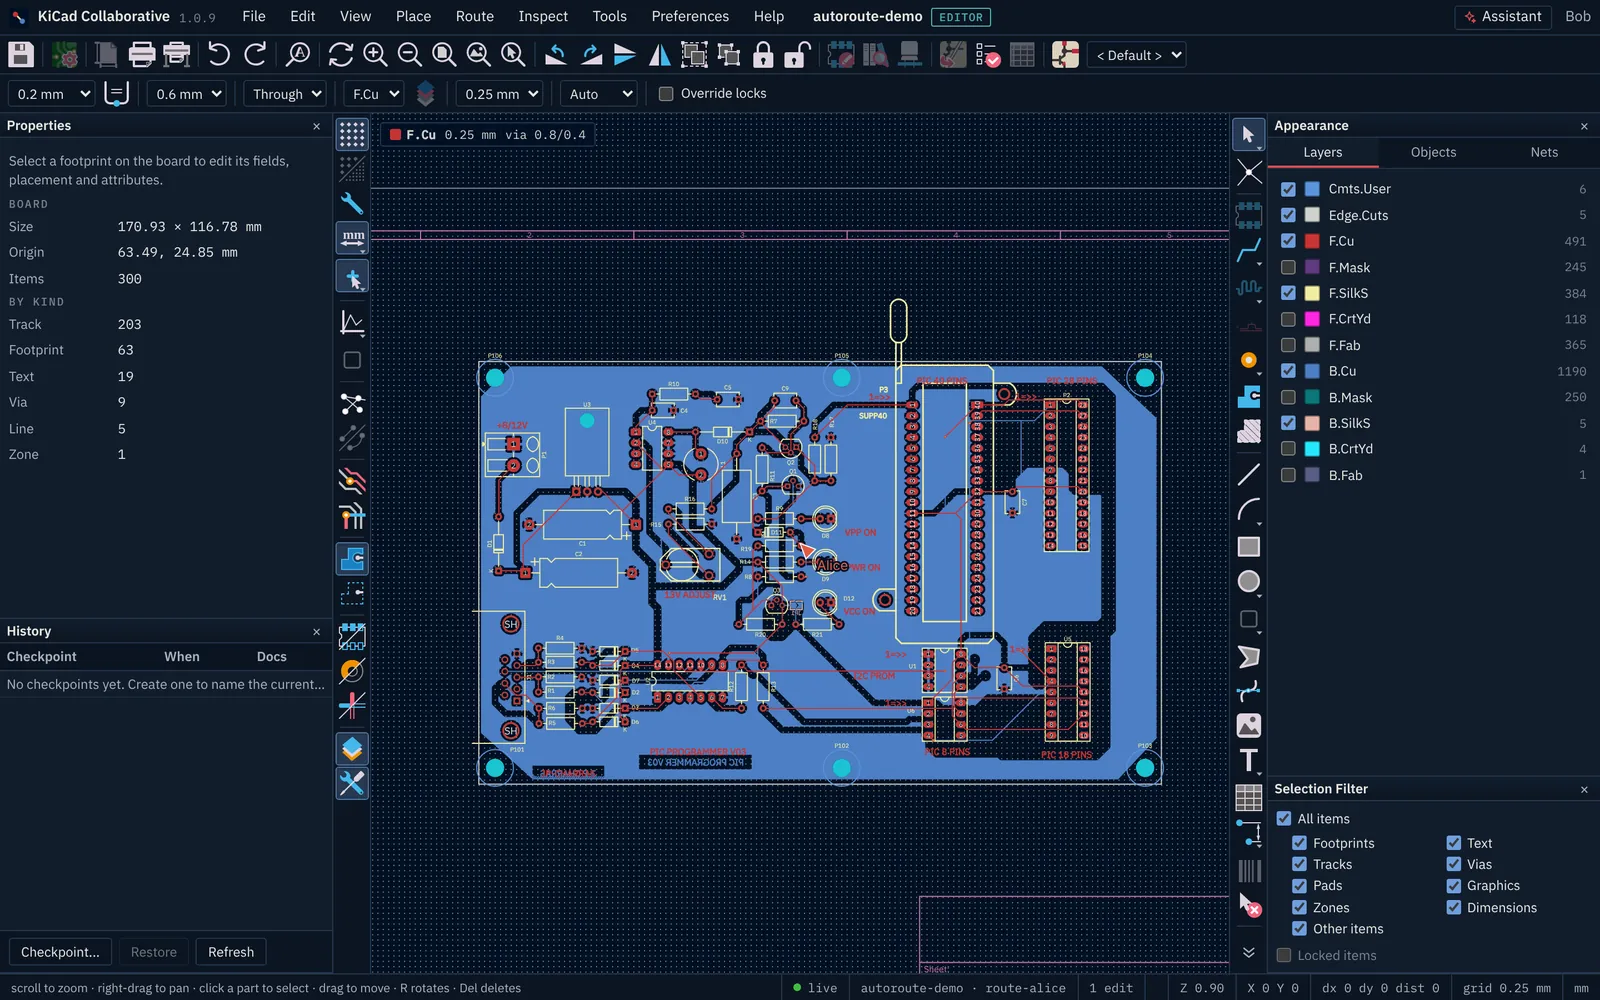
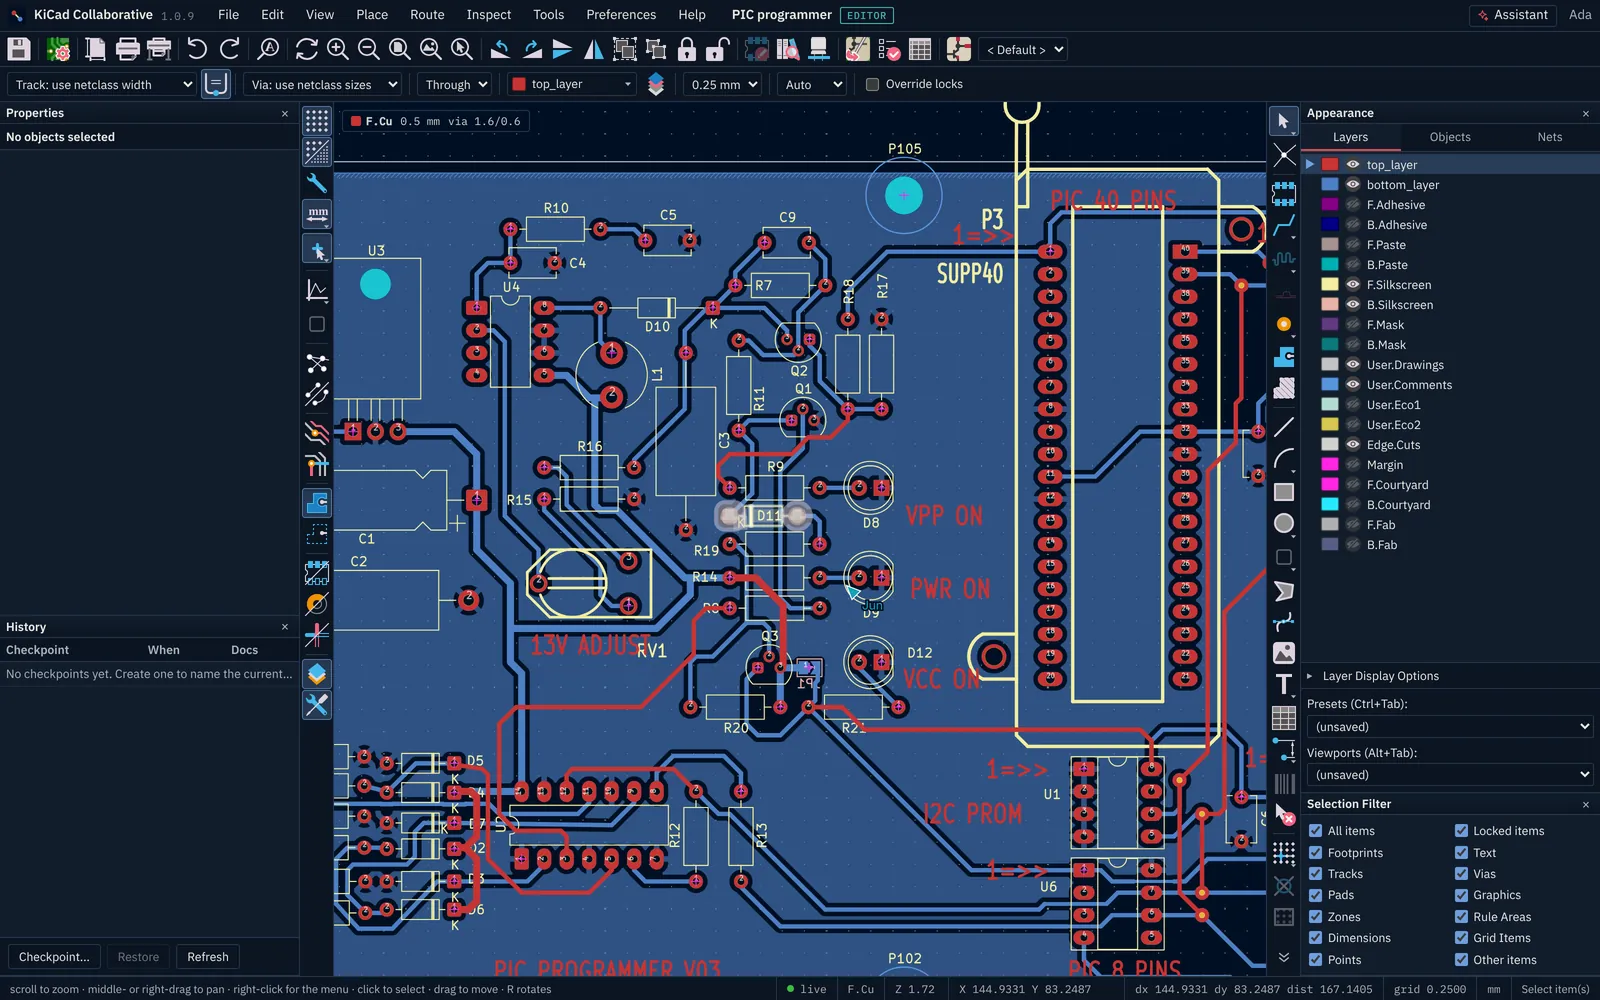
Web: home page - fresh editor screenshots, feature list caught up with master (3D viewer, plugin registry, board from a description)

diff --git a/server/static/landing.html b/server/static/landing.html
@@ -328,7 +328,7 @@
         <li data-step><span class="n">Sheet 3 / Routing</span><h3>Route it, by hand or not</h3>
           <div class="more"><div><p>Tracks appear for everyone segment by segment as they are laid. In the web editor, the autorouter can finish the connections you leave and shows its result as a preview before anything is kept.</p></div></div></li>
         <li data-step><span class="n">Sheet 4 / Board</span><h3>It is still KiCad</h3>
-          <div class="more"><div><p>The files are ordinary .kicad_sch and .kicad_pcb. Design rule checks, the 3D viewer and fabrication outputs are the desktop app's own. Name a checkpoint before you order, and restore it if you need to.</p></div></div></li>
+          <div class="more"><div><p>The files are ordinary .kicad_sch and .kicad_pcb. Rule checks and the 3D viewer work in the browser too, and fabrication outputs come from the desktop app as they always have. Name a checkpoint before you order, and restore it if you need to.</p></div></div></li>
       </ol>
       <div class="scene">
         <canvas aria-label="A 555 LED blinker drawn as a schematic, then placed, routed and shown as a finished board as you scroll."></canvas>
@@ -345,8 +345,8 @@
     <h2 class="rv" style="--i:1; margin-top:18px">What you see when someone else is in the file.</h2>
     <div class="together-grid">
       <figure class="rv">
-        <div class="shot"><img src="/static/landing/editor.webp" width="1600" height="1000" loading="lazy" alt="The web PCB editor in dark mode. Bob has a routed board open and Alice's named cursor is visible in the middle of it."></div>
-        <figcaption class="cap" style="margin-top:10px">The web PCB editor. Bob's window, Alice's cursor.</figcaption>
+        <div class="shot"><img src="/static/landing/editor.webp" width="1600" height="1000" loading="lazy" alt="The web PCB editor in dark mode, zoomed in on a routed board. Jun has selected diode D11, which is outlined on Ada's screen, and Jun's named cursor is beside it."></div>
+        <figcaption class="cap" style="margin-top:10px">The web PCB editor. Ada's window; Jun has D11 selected.</figcaption>
       </figure>
       <ol class="notes rv" style="--i:1">
         <li><div><b>Named cursors and selections</b><span>Everyone gets a colour. Their pointer and whatever they have selected are drawn in it on your canvas.</span></div></li>
@@ -368,18 +368,18 @@
     <div class="bom-grid">
       <div class="bom rv" role="tablist" aria-label="Features" aria-orientation="vertical">
         <div class="bom-h"><span>REF</span><span>ITEM</span></div>
-        <button class="bom-r" role="tab" aria-selected="true" data-shot="editor"><span class="ref">01</span><span><b>Web editor</b><span class="d"><span>The schematic and PCB editors in a browser tab, drawn on canvas with KiCad's colours, menus, hotkeys and mouse model. Move, wire, route, edit properties and place parts from the KiCad libraries.</span></span></span></button>
+        <button class="bom-r" role="tab" aria-selected="true" data-shot="editor"><span class="ref">01</span><span><b>Web editor</b><span class="d"><span>The schematic and PCB editors in a browser tab, with KiCad's menus, hotkeys, docked panels and mouse model. Wire, route, edit properties, place parts from the KiCad libraries, run the rule checks, update the board from the schematic, and open the 3D viewer.</span></span></span></button>
         <button class="bom-r" role="tab" aria-selected="false" data-shot="projects"><span class="ref">02</span><span><b>Online projects</b><span class="d"><span>Upload a project in the browser or publish it from the desktop app. Search, stars, thumbnails, and a Trash that keeps things for 30 days.</span></span></span></button>
         <button class="bom-r" role="tab" aria-selected="false" data-shot="share"><span class="ref">03</span><span><b>Sharing and roles</b><span class="d"><span>Invite by GitHub username or email, or send an editor or viewer link you can revoke. Role changes apply at once, also for people who have the project open.</span></span></span></button>
         <button class="bom-r" role="tab" aria-selected="false" data-shot="github"><span class="ref">04</span><span><b>GitHub sync</b><span class="d"><span>Link a project to a repository and pull or push from the browser. When both sides changed a file, items are merged by their UUID, and you pick which side wins where they truly conflict.</span></span></span></button>
         <button class="bom-r" role="tab" aria-selected="false" data-shot="parts"><span class="ref">05</span><span><b>Part search</b><span class="d"><span>Search LCSC with stock and prices, or Mouser, DigiKey and Farnell with your own API keys, then place the symbol and footprint straight into the design. Save parts into libraries you share.</span></span></span></button>
         <button class="bom-r" role="tab" aria-selected="false" data-shot="router"><span class="ref">06</span><span><b>Autorouter</b><span class="d"><span>Routes the connections that are left and shows the result as a preview. Keep it, stop part-way and keep what is done, or cancel and nothing changes.</span></span></span></button>
-        <button class="bom-r" role="tab" aria-selected="false" data-shot="assistant"><span class="ref">07</span><span><b>Design assistant</b><span class="d"><span>Reads the sheet, runs the rule checks, looks up datasheets, and proposes edits on a card you preview and accept. Nothing is applied silently. It runs on the server's API key or your own.</span></span></span></button>
-        <button class="bom-r" role="tab" aria-selected="false" data-shot="plugins"><span class="ref">08</span><span><b>Plugins</b><span class="d"><span>Sandboxed plugins ask for the permissions they need and add menu items, toolbar buttons and panels. BOM export, design statistics, snap to grid, field lint and placement import come with the editor.</span></span></span></button>
+        <button class="bom-r" role="tab" aria-selected="false" data-shot="assistant"><span class="ref">07</span><span><b>Design assistant</b><span class="d"><span>Reads the sheet, runs the rule checks, looks up datasheets, and proposes edits on a card you preview and accept. Give it a description and it drafts a board stage by stage, from parts and schematic to placement and routing, each step a proposal. Nothing is applied silently.</span></span></span></button>
+        <button class="bom-r" role="tab" aria-selected="false" data-shot="plugins"><span class="ref">08</span><span><b>Plugins</b><span class="d"><span>Sandboxed plugins ask for the permissions they need and add menu items, toolbar buttons and panels. Install from a community registry or publish your own; a project can recommend the plugins it uses.</span></span></span></button>
       </div>
       <figure class="bom-view rv" style="--i:1">
         <div class="shot" id="bomShots">
-          <img class="on" data-shot="editor" src="/static/landing/schematic.webp" width="1600" height="1000" loading="lazy" alt="The web schematic editor with a sheet open, toolbars and the properties panel around it.">
+          <img class="on" data-shot="editor" src="/static/landing/schematic.webp" width="1600" height="1000" loading="lazy" alt="The web schematic editor with the PIC programmer sheet open, KiCad's toolbars and docked panels around it, and a collaborator's cursor on the sheet.">
           <img data-shot="projects" data-src="/static/landing/projects.webp" width="1600" height="1000" alt="The projects page with four project cards, each with a thumbnail of its board.">
           <img data-shot="share" data-src="/static/landing/share.webp" width="1600" height="1000" alt="The share dialog listing people with access, their roles, share links and general access.">
           <img data-shot="github" data-src="/static/landing/github.webp" width="1600" height="1000" alt="The GitHub sync page showing files to pull and push and a file changed on both sides.">
